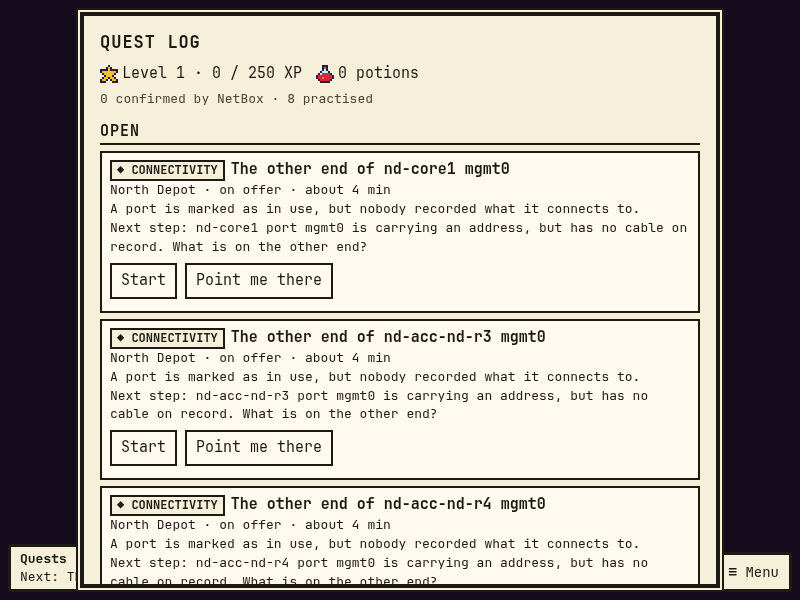
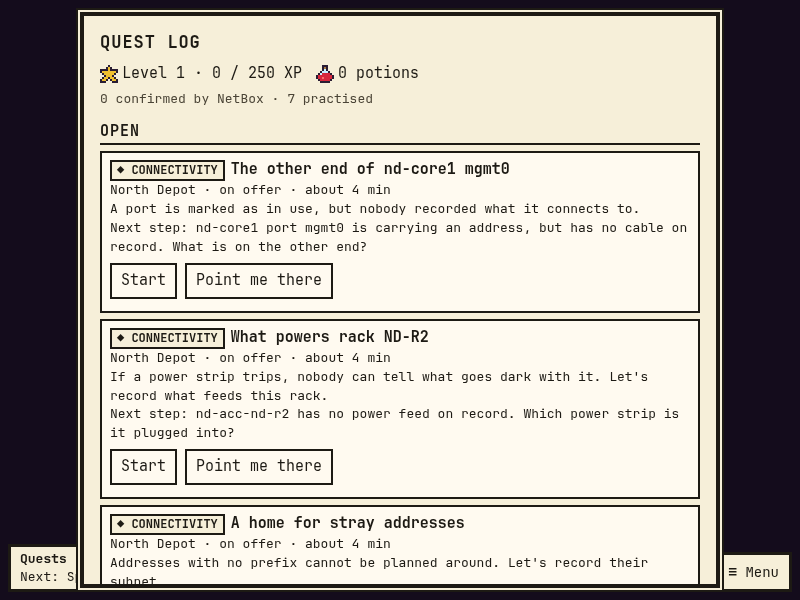
Quests: a site offers different kinds of line before a second of one kind; screenshots of the final runs

Changed region(s): [[0.125, 0.6, 0.875, 0.99], [0.2812, 0.54, 0.6875, 0.57], [0.3438, 0.15, 0.375, 0.18]]

diff --git a/web/e2e/quests.spec.ts b/web/e2e/quests.spec.ts
@@ -75,7 +75,7 @@ test('a quest giver by every door: a real question, "I don\'t know yet" as a fie
   await typed(page);
   let d = (await game(page)).dialogue!;
   expect(d.text).toBe('A port is marked as in use, but nobody recorded what it connects to.');
-  expect(d.choices).toEqual(["Let's find out", 'Or: The other end of nd-acc-nd-r3 mgmt0', 'Show me the quest log', 'Not now']);
+  expect(d.choices).toEqual(["Let's find out", 'Or: What powers rack ND-R2', 'Show me the quest log', 'Not now']);
   await expect(page.locator('#dialogue .name')).toHaveText('Tansy');
   await expect(page.locator('#dialogue .portrait-giver')).toBeVisible();
   await page.screenshot({ path: `${SHOTS}/giver-dialogue.png` });

diff --git a/proxy/tests/test_quest_routes.py b/proxy/tests/test_quest_routes.py
@@ -409,3 +409,20 @@ def test_a_site_in_order_gets_spot_checks_not_invented_work(cl):
     after = board(cl)
     assert after["rewards"]["xp"] == 0 and after["all_in_order"]
     assert [x["title"] for x in after["quests"] if x["status"] == "offered"] == ["Spot check: sw-quay-2"]
+
+
+def test_a_site_offers_different_kinds_of_line_before_a_second_of_one_kind(cl):
+    from rackwalker_proxy.questroutes import offer
+
+    def L(kind: str, n: int) -> dict:
+        return {"id": f"{kind}:{n}", "kind": kind}
+    power = [L("device_no_power", i) for i in range(5)]
+    assert [x["id"] for x in offer(power)] == ["device_no_power:0", "device_no_power:1", "device_no_power:2"]
+    mixed = [L("interface_no_cable", 1), L("interface_no_cable", 2), L("device_no_power", 1), L("device_no_power", 2), L("site_record", 1)]
+    # most valuable first, one of each kind; never more than three
+    assert [x["id"] for x in offer(mixed)] == ["interface_no_cable:1", "device_no_power:1", "site_record:1"]
+    assert [x["id"] for x in offer(mixed[:3])] == ["interface_no_cable:1", "interface_no_cable:2", "device_no_power:1"]
+    # the seed's North Depot has seven management ports with no cable and three unpowered racks: it offers one of each
+    b = board(cl, "netbox", site_id=1)
+    assert [q["kind"] for q in b["quests"]] == ["interface_no_cable", "device_no_power", "address_no_prefix"]
+    assert b["next_quest_id"] == b["quests"][0]["id"] and b["queued"] == len(b["findings"]) + 7 - 3

diff --git a/proxy/rackwalker_proxy/questroutes.py b/proxy/rackwalker_proxy/questroutes.py
@@ -62,6 +62,18 @@ def xp_for(line_xp: int, newly: int, total: int, repeats: int) -> int:
     return round(line_xp * newly / max(1, total) * REPEAT[min(repeats, len(REPEAT) - 1)])
 
 
+def offer(fresh: list[dict[str, Any]]) -> list[dict[str, Any]]:
+    """The few lines offered at one site out of all that are open, most valuable first: the first line of each kind
+    before a second line of any kind, so a site with twelve unpowered racks does not offer the same quest three times."""
+    seen: set[str] = set()
+    first, more = [], []
+    for line in fresh:
+        (more if line["kind"] in seen else first).append(line)
+        seen.add(line["kind"])
+    chosen = (first + more)[:MAX_OPEN]
+    return [line for line in fresh if any(line is c for c in chosen)]
+
+
 def finding_body(f: dict[str, Any]) -> dict[str, Any]:
     return {k: f[k] for k in ("id", "kind", "rank", "site_id", "title", "evidence")}
 
@@ -171,7 +183,7 @@ def install(app: FastAPI, *, client: NetBox | None, fixtures_dir: Path | None, w
                 if spot is not None:
                     (waiting if parked_spot else fresh).append(spot)
             real_open = len(open_lines)
-            shown = fresh[:MAX_OPEN] + waiting[:MAX_PARKED]
+            shown = offer(fresh) + waiting[:MAX_PARKED]
             if site_id in (None, sid):
                 queued += max(0, len(open_lines) - len(shown))
                 for line in shown:

diff --git a/contracts/api.md b/contracts/api.md
@@ -186,7 +186,8 @@ Ids above 9,000,000 belong to the practice island, which is not in NetBox: both 
 * **`GET /api/game/quests?scope=netbox|practice&site_id=&fresh=`**: the quest log (`fresh=true` reads NetBox now, for a
   change made in NetBox itself within the last minute). Without `site_id`, the lines open at
   every site. At most three fresh lines are listed per site (the most valuable first: connectivity, identity,
-  layout), parked and practised lines beside them, the rest counted in `queued`; then the last finished lines.
+  layout; the first line of each kind before a second line of any kind), parked and practised lines beside them, the
+  rest counted in `queued`; then the last finished lines.
   `next_quest_id` is the most valuable fresh line of the scope. `can_write` is false, with `write_blocked` saying why,
   on the practice island, in fixture mode and on a dry-run proxy.
 * **Statuses.** `offered` (not started), `active` (a question waits), `ready` (a change waits for preview and apply;

diff --git a/docs/quests.md b/docs/quests.md
@@ -123,7 +123,9 @@ completeness. A device with no cable at all is the finding `device_unconnected` 
   shows it.
 * **An answer that no longer fits** (the port got a cable in the meantime) is asked again.
 
-At most three lines are open per site at a time, the most valuable first. Parked lines wait beside them.
+At most three lines are open per site at a time, the most valuable first, and of different kinds where the site has
+more than one kind of thing to find out (so a site with twelve unpowered racks does not offer the same quest three
+times). Parked lines wait beside them.
 
 ## What is written, and who may write
 
